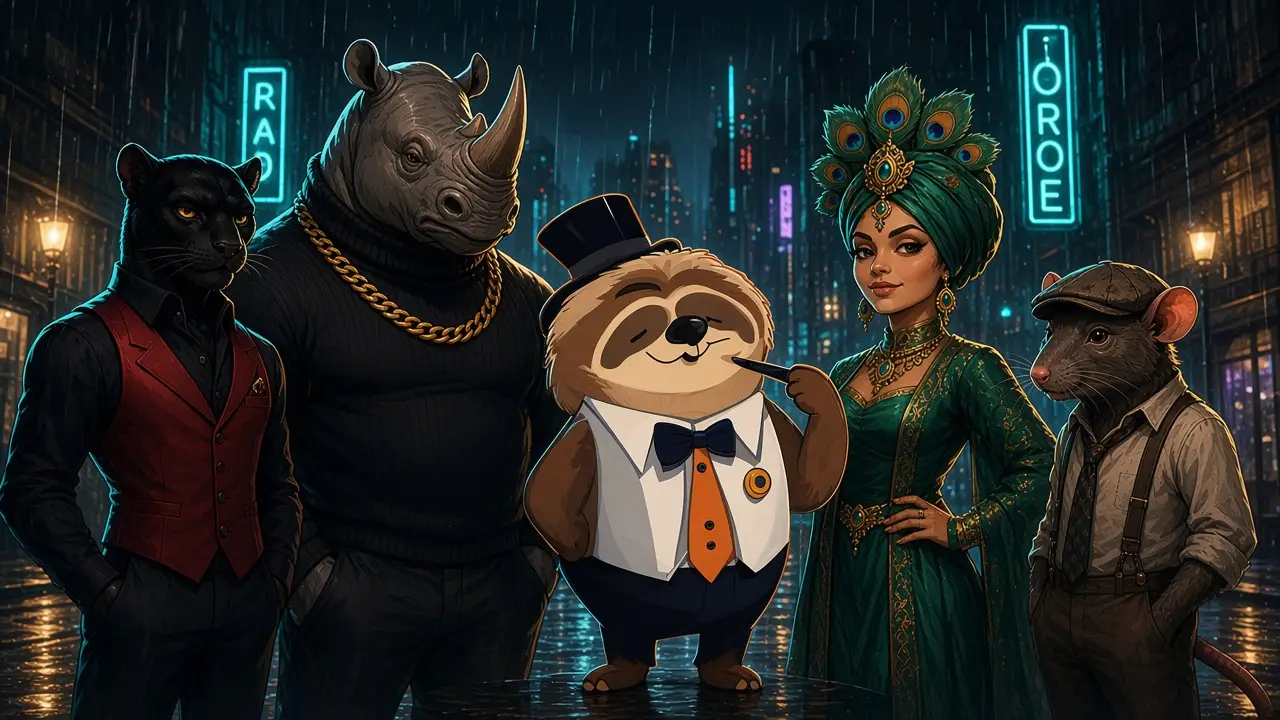
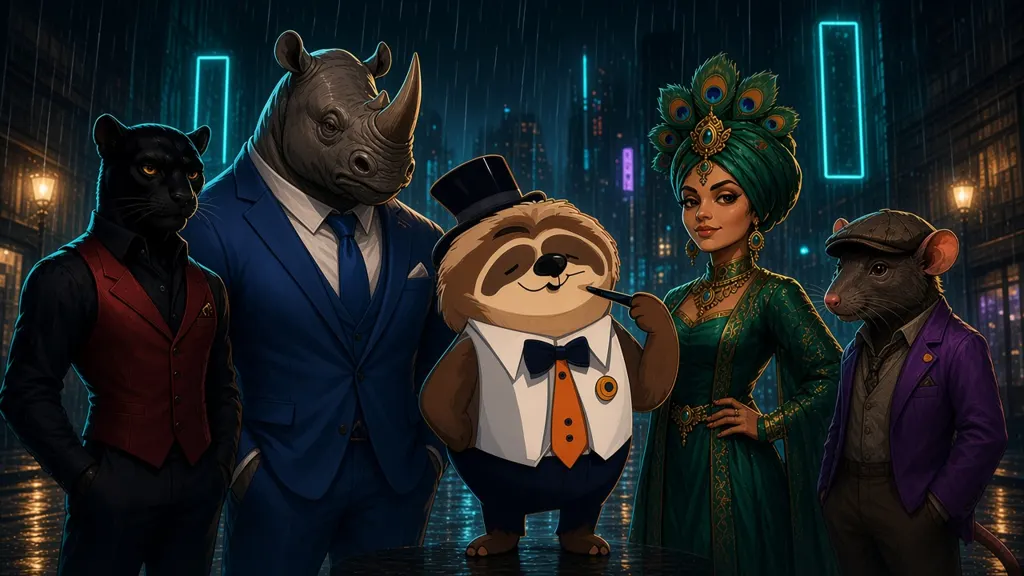
v7: symbol frames, music, art, turbo

diff --git a/app/src/sound.ts b/app/src/sound.ts
@@ -6,7 +6,7 @@ function ac() {
   if (!ctx) {
     ctx = new AudioContext(); master = ctx.createGain(); master.gain.value = 0.8; master.connect(ctx.destination);
     const comp = ctx.createDynamicsCompressor(); comp.connect(master);
-    music = ctx.createGain(); music.gain.value = 0.35; music.connect(comp);
+    music = ctx.createGain(); music.gain.value = 0.32; music.connect(comp);
     sfxBus = ctx.createGain(); sfxBus.gain.value = 0.9; sfxBus.connect(comp);
   }
   return ctx;
@@ -25,21 +25,54 @@ function noise(t0: number, dur: number, vol: number, freq: number, q = 1, type: 
   g.gain.setValueAtTime(vol, t0); g.gain.exponentialRampToValueAtTime(0.0001, t0 + dur);
   s.connect(f).connect(g).connect(dest ?? sfxBus); s.start(t0); s.stop(t0 + dur + 0.05);
 }
-/** Ambient bed: rain noise + dark detuned drone + slow pulse. */
+/** Music: synthesized lounge noir beat. Base loop 86 bpm (lazy hip hop drums, walking bass, rhodes chords, rain).
+ * Bonus loop 100 bpm with busier drums, minor stabs and a pulse. Scheduled with a lookahead timer. */
+let musicOn = true, sfxOn = true, mode: 'base' | 'bonus' = 'base', timer = 0, step = 0, nextT = 0, padBus: GainNode | null = null;
+export function setMusicOn(on: boolean) { musicOn = on; if (ctx) music.gain.setTargetAtTime(on ? 0.32 : 0, ctx.currentTime, 0.1); }
+export function setSfxOn(on: boolean) { sfxOn = on; if (ctx) sfxBus.gain.setTargetAtTime(on ? 0.85 : 0, ctx.currentTime, 0.05); }
+export function setMusicMode(m: 'base' | 'bonus') { mode = m; }
+const N = (m: number) => 440 * 2 ** ((m - 69) / 12);
+// Dm9, G13, Cmaj9, A7b9 (base) and Dm, Bb, Gm, A (bonus)
+const CH = { base: [[50, 53, 57, 60, 64], [43, 53, 57, 59, 64], [48, 52, 55, 59, 62], [45, 55, 58, 61, 64]], bonus: [[50, 57, 62, 65], [46, 58, 62, 65], [43, 55, 58, 62], [45, 57, 61, 64]] };
+const BASS = { base: [38, 41, 45, 43, 31, 35, 38, 41, 36, 40, 43, 45, 33, 37, 40, 43], bonus: [38, 38, 50, 38, 34, 34, 46, 34, 31, 31, 43, 31, 33, 33, 45, 40] };
+function kick(t: number, v = .5) { osc(110, 'sine', t, .28, v, music, 40); }
+function snare(t: number, v = .25) { noise(t, .18, v, 1800, .8, 'bandpass', music); osc(190, 'triangle', t, .08, v * .4, music); }
+function hat(t: number, v = .06) { noise(t, .04, v, 8000, 1, 'highpass', music); }
+function rhodes(t: number, notes: number[], dur: number, v = .035) { for (const n of notes) { osc(N(n), 'sine', t, dur, v, padBus!); osc(N(n) * 2, 'triangle', t, dur * .4, v * .25, padBus!); } }
+function sched() {
+  const c = ctx!; const bpm = mode === 'bonus' ? 100 : 86, s16 = 60 / bpm / 4;
+  while (nextT < c.currentTime + .25) {
+    const t = nextT, k = step % 16, bar = Math.floor(step / 16) % 4, sw = k % 2 ? s16 * .18 : 0, tt = t + sw;
+    if (musicOn) {
+      if (mode === 'base') {
+        if (k === 0 || k === 10 || (k === 7 && bar % 2)) kick(tt); if (k === 4 || k === 12) snare(tt); if (k % 2 === 0 || k === 15) hat(tt, k % 4 === 2 ? .07 : .04);
+        if (k % 4 === 0) osc(N(BASS.base[bar * 4 + k / 4]), 'triangle', tt, s16 * 3.6, .16, music);
+        if (k === 0) rhodes(tt + .02, CH.base[bar], s16 * 14); if (k === 11 && bar % 2) rhodes(tt, CH.base[bar].slice(2), s16 * 3, .025);
+      } else {
+        if (k % 4 === 0 || k === 14) kick(tt, .6); if (k === 4 || k === 12) snare(tt, .32); hat(tt, k % 2 ? .04 : .08);
+        if (k % 4 === 0 || k % 4 === 2) osc(N(BASS.bonus[bar * 4 + Math.floor(k / 4)]), 'sawtooth', tt, s16 * 1.6, .07, music);
+        if (k === 0 || k === 6 || k === 10) rhodes(tt, CH.bonus[bar], s16 * 2, .03); if (k === 0 && bar === 3) osc(N(74), 'square', tt, s16 * 8, .02, music, N(86));
+      }
+    }
+    nextT += s16; step++;
+  }
+}
+/** Starts the audio after the first user tap (mobile autoplay rules). */
 export function startAmbient() {
   const c = ac(); if (c.state === 'suspended') c.resume(); if (bedNodes.length) return;
   const rain = c.createBufferSource(); rain.buffer = noiseBuf(4); rain.loop = true;
-  const rf = c.createBiquadFilter(); rf.type = 'highpass'; rf.frequency.value = 2500; const rg = c.createGain(); rg.gain.value = 0.12;
+  const rf = c.createBiquadFilter(); rf.type = 'highpass'; rf.frequency.value = 3000; const rg = c.createGain(); rg.gain.value = 0.05;
   rain.connect(rf).connect(rg).connect(music); rain.start();
-  const lp = c.createBiquadFilter(); lp.type = 'lowpass'; lp.frequency.value = 220; lp.connect(music);
-  for (const f of [55, 55.4, 82.4]) { const o = c.createOscillator(); o.type = 'sawtooth'; o.frequency.value = f; const g = c.createGain(); g.gain.value = 0.09; o.connect(g).connect(lp); o.start(); bedNodes.push(o); }
-  const lfo = c.createOscillator(); lfo.frequency.value = 0.08; const lg = c.createGain(); lg.gain.value = 120; lfo.connect(lg).connect(lp.frequency); lfo.start();
+  padBus = c.createGain(); const lp = c.createBiquadFilter(); lp.type = 'lowpass'; lp.frequency.value = 1800; padBus.connect(lp).connect(music);
   tension = c.createGain(); tension.gain.value = 0; tension.connect(music);
-  const t = c.createOscillator(); t.type = 'square'; t.frequency.value = 110; const tf = c.createBiquadFilter(); tf.type = 'lowpass'; tf.frequency.value = 600; t.connect(tf).connect(tension); t.start();
-  bedNodes.push(rain, lfo, t);
+  const t = c.createOscillator(); t.type = 'sawtooth'; t.frequency.value = 73.4; const tf = c.createBiquadFilter(); tf.type = 'lowpass'; tf.frequency.value = 500; t.connect(tf).connect(tension); t.start();
+  bedNodes.push(rain, t); music.gain.value = musicOn ? 0.32 : 0; sfxBus.gain.value = sfxOn ? 0.85 : 0;
+  nextT = c.currentTime + .1; timer = window.setInterval(sched, 60);
 }
-export function setTension(on: boolean) { if (tension && ctx) tension.gain.setTargetAtTime(on ? 0.08 : 0, ctx.currentTime, 0.3); }
+export function setTension(on: boolean) { if (tension && ctx) tension.gain.setTargetAtTime(on ? 0.06 : 0, ctx.currentTime, 0.3); }
+export const stopMusic = () => clearInterval(timer);
 const now = () => ac().currentTime;
+const kick2 = (t: number) => osc(90, 'sine', t, .3, .4, sfxBus, 40);
 export const sfx = {
   click: () => osc(900, 'square', now(), 0.04, 0.05, sfxBus),
   spinStart: () => { const t = now(); noise(t, 0.35, 0.25, 800, 0.7, 'lowpass'); osc(120, 'sawtooth', t, 0.3, 0.12, sfxBus, 60); },
@@ -57,6 +90,9 @@ export const sfx = {
     [0, 5, 7, 12, 15, 19, 24].forEach((s, i) => osc(220 * 2 ** (s / 12), 'sawtooth', t + 0.2 + i * 0.11, 0.5, 0.06, sfxBus)); },
   bonus: () => { const t = now(); noise(t, 1.5, 0.6, 90, 0.5, 'lowpass'); [0, 3, 7, 12, 15].forEach((s, i) => osc(110 * 2 ** (s / 12), 'sawtooth', t + i * 0.18, 0.9, 0.08, sfxBus)); osc(41, 'sine', t, 2, 0.5, sfxBus); },
   slam: () => { const t = now(); noise(t, 0.5, 0.9, 140, 0.6, 'lowpass'); osc(48, 'sine', t, 0.6, 0.8, sfxBus, 28); osc(2400, 'triangle', t, 0.25, 0.06, sfxBus, 1200); },
+  cellOpen: () => { const t = now(); noise(t, .2, .5, 2500, 2); osc(140, 'square', t, .12, .1, sfxBus, 70); osc(1200, 'triangle', t + .12, .25, .08, sfxBus, 1800); },
+  winTier: (i: number) => { const t = now(); const sc = [[0, 4, 7], [0, 4, 7, 11], [0, 4, 7, 11, 14], [0, 4, 7, 11, 14, 19]][Math.max(0, Math.min(3, i))];
+    sc.forEach((s, k) => { osc(392 * 2 ** (s / 12), 'triangle', t + k * .09, .5, .09, sfxBus); osc(196 * 2 ** (s / 12), 'square', t + k * .09, .3, .03, sfxBus); }); kick2(t); },
   whoosh: () => { const t = now(); noise(t, 0.45, 0.35, 900, 0.5, 'bandpass'); },
   coin: () => { const t = now(); osc(2600 + Math.random() * 800, 'triangle', t, 0.08, 0.05, sfxBus); osc(3900, 'sine', t + 0.03, 0.06, 0.03, sfxBus); },
   tierUp: (i: number) => { const t = now(); [0, 4, 7, 12].forEach((s, k) => osc(262 * 2 ** ((s + i * 5) / 12), 'square', t + k * 0.06, 0.3, 0.07, sfxBus)); noise(t, 0.6, 0.3, 3000, 1); },

diff --git a/app/src/board.ts b/app/src/board.ts
@@ -20,14 +20,27 @@ interface Reel { c: Container; strip: Container; slots: Slot[]; pos: number; spe
 type Particle = { s: Sprite; vx: number; vy: number; life: number; max: number; g: number };
 
 async function loadImg(url: string) { const i = new Image(); i.src = url; await i.decode().catch(() => {}); return i; }
-function tex(img: HTMLImageElement, mode: 'plain' | 'blur' | 'split', pad = 6) {
-  const R = 2, cv = document.createElement('canvas'); cv.width = C * R; cv.height = C * R; const x = cv.getContext('2d')!;
-  const sc = Math.min((C - pad * 2) / img.width, (C - pad * 2) / img.height) * R; const w = img.width * sc, h = img.height * sc;
-  const ox = (cv.width - w) / 2, oy = (cv.height - h) / 2;
-  if (mode === 'plain') x.drawImage(img, ox, oy, w, h);
-  else if (mode === 'blur') { for (let i = 0; i < 14; i++) { x.globalAlpha = .16; x.drawImage(img, ox, oy + (i / 13 - .5) * 100 * R / 2, w, h); } }
-  else { const k = .56; x.drawImage(img, ox * .2, oy * .2, w * k, h * k); x.drawImage(img, cv.width - w * k - ox * .2, cv.height - h * k - oy * .2, w * k, h * k);
-    x.strokeStyle = '#02F7FD'; x.lineWidth = 3 * R; x.beginPath(); x.moveTo(cv.width * .92, cv.height * .08); x.lineTo(cv.width * .08, cv.height * .92); x.globalAlpha = .7; x.stroke(); }
+const FRAME: Record<number, string> = { 0: '#f5c542', 1: '#02F7FD', 2: '#f5c542', 3: '#02F7FD', 4: '#f5c542', 5: '#f5c542', 6: '#e0384e', 7: '#3f86ff', 8: '#1fd08f', 9: '#a865ff', 10: '#5aa7b5', 11: '#5aa7b5', 12: '#5aa7b5', 13: '#5aa7b5' };
+/** One frame system for every symbol: dark rounded card, art inside, coloured rim. Full art cards are cropped to cover; cut out icons sit on a tinted glow. */
+function drawFramed(x: CanvasRenderingContext2D, img: HTMLImageElement, sym: number, card: boolean, X: number, Y: number, W: number) {
+  const col = FRAME[sym] ?? '#5aa7b5', r = W * .14, inset = W * .04;
+  const path = () => { x.beginPath(); x.roundRect(X + inset, Y + inset, W - inset * 2, W - inset * 2, r); };
+  x.save(); path(); x.clip();
+  const g = x.createRadialGradient(X + W / 2, Y + W * .45, W * .05, X + W / 2, Y + W / 2, W * .7); g.addColorStop(0, col + '66'); g.addColorStop(.6, '#0c2229'); g.addColorStop(1, '#050e12');
+  x.fillStyle = g; x.fillRect(X, Y, W, W);
+  if (card) { const c = .07 * img.width; x.drawImage(img, c, c, img.width - 2 * c, img.height - 2 * c, X + inset, Y + inset, W - inset * 2, W - inset * 2); }
+  else { const pad = W * .1, sc = Math.min((W - pad * 2) / img.width, (W - pad * 2) / img.height), w = img.width * sc, h = img.height * sc; x.drawImage(img, X + (W - w) / 2, Y + (W - h) / 2, w, h); }
+  const sh = x.createLinearGradient(0, Y, 0, Y + W); sh.addColorStop(0, '#ffffff22'); sh.addColorStop(.35, '#ffffff00'); x.fillStyle = sh; x.fillRect(X, Y, W, W);
+  x.restore(); path(); x.lineWidth = W * .035; x.strokeStyle = col; x.stroke(); x.lineWidth = W * .012; x.strokeStyle = '#ffffff55'; x.stroke();
+}
+function tex(img: HTMLImageElement, mode: 'plain' | 'blur' | 'split', sym = -1, card = false) {
+  const R = 2, W = C * R, cv = document.createElement('canvas'); cv.width = W; cv.height = W; const x = cv.getContext('2d')!;
+  if (sym < 0) { x.drawImage(img, 0, 0, W, W); return Texture.from(cv); }
+  if (mode === 'plain') drawFramed(x, img, sym, card, 0, 0, W);
+  else if (mode === 'blur') { const t = document.createElement('canvas'); t.width = t.height = W; drawFramed(t.getContext('2d')!, img, sym, card, 0, 0, W);
+    for (let i = 0; i < 12; i++) { x.globalAlpha = .18; x.drawImage(t, 0, (i / 11 - .5) * W * .5); } }
+  else { const h = W * .54; drawFramed(x, img, sym, card, 0, 0, h); drawFramed(x, img, sym, card, W - h, W - h, h);
+    x.strokeStyle = '#02F7FD'; x.lineWidth = 3 * R; x.globalAlpha = .8; x.beginPath(); x.moveTo(W * .92, W * .08); x.lineTo(W * .08, W * .92); x.stroke(); }
   return Texture.from(cv);
 }
 function dotTex() { const c = document.createElement('canvas'); c.width = c.height = 64; const x = c.getContext('2d')!; const g = x.createRadialGradient(32, 32, 0, 32, 32, 32);
@@ -51,9 +64,9 @@ export class Board {
     const cv = this.app.canvas; cv.style.width = '100%'; cv.style.height = '100%'; cv.style.display = 'block'; host.appendChild(cv);
     const imgs = await Promise.all(SYM.map(n => loadImg(ART(n))));
     const cards = new Set([S.WILD, S.DWILD, 6, 7, 8, 9]);
-    this.plain = imgs.map((im, i) => tex(im, 'plain', cards.has(i as 0) ? 4 : 10)); this.blur = imgs.map(im => tex(im, 'blur'));
-    this.splitT = imgs.map((im, i) => tex(im, 'split', cards.has(i as 0) ? 4 : 10));
-    for (const n of ['locked', 'runner']) this.T[n] = tex(await loadImg(ART(n)), 'plain', 2);
+    this.plain = imgs.map((im, i) => tex(im, 'plain', i, cards.has(i as 0))); this.blur = imgs.map((im, i) => tex(im, 'blur', i, cards.has(i as 0)));
+    this.splitT = imgs.map((im, i) => tex(im, 'split', i, cards.has(i as 0)));
+    this.T.locked = tex(await loadImg(ART('locked')), 'plain'); this.T.runner = tex(await loadImg(ART('runner')), 'plain', S.WILD, true);
     this.dot = dotTex(); this.shine = shineTex();
     this.app.stage.addChild(this.root);
     for (let r = 0; r < 5; r++) {
@@ -117,7 +130,7 @@ export class Board {
   private resetVaults() { for (const r of this.reels) for (const v of r.vault) { v.open = false; v.content.visible = false; v.badge?.destroy(); v.badge = null; gsap.killTweensOf(v.lock); v.lock.alpha = 1; v.lock.y = ry(r.vault.indexOf(v) ? 4 : 0); } }
   spin(sp: Spin, opts: { turbo: boolean; antic: boolean }) {
     this.clearWins(); this.clearParticles(); this.resetVaults(); this.turbo = opts.turbo; this.quick = false; this.ctx = sp; this.anticOK = opts.antic; this.keys = 0; this.landed = 0;
-    const now = performance.now(), base = opts.turbo ? 120 : 420, stag = opts.turbo ? 45 : 140;
+    const now = performance.now(), base = opts.turbo ? 90 : 420, stag = opts.turbo ? 0 : 140;
     this.reels.forEach((r, i) => { const col = sp.grid[i]; r.feed = [col[3]!.s, col[2]!.s, col[1]!.s, rndSym()]; r.stopAt = now + base + i * stag; r.antic = false;
       gsap.fromTo(r.strip, { y: 0 }, { y: -12, duration: .07, yoyo: true, repeat: 1 }); setTimeout(() => { r.state = 'spin'; r.speed = 900; }, 60); });
     const t0 = performance.now();
@@ -147,7 +160,7 @@ export class Board {
   async openCells(sp: Spin) {
     for (const rv of sp.reveals) { const r = this.reels[rv.reel]; const v = r.vault[rv.row === 0 ? 0 : 1]; const p = this.pos(rv.reel, rv.row);
       sfx.enhancer(); v.open = true;
-      gsap.to(v.lock, { y: v.lock.y + (rv.row === 0 ? -C * .6 : C * .6), alpha: 0, duration: this.turbo ? .15 : .3, ease: 'power2.in' });
+      sfx.cellOpen(); gsap.to(v.lock, { y: v.lock.y + (rv.row === 0 ? -C * .6 : C * .6), alpha: 0, duration: this.turbo ? .15 : .3, ease: 'power2.in' });
       await wait(this.turbo ? 90 : 200);
       v.content.texture = rv.cell.s === S.EXPAND ? this.plain[S.EXPAND] : this.cellTex(rv.cell); v.content.width = v.content.height = C; v.content.visible = true;
       gsap.fromTo(v.content.scale, { x: v.content.scale.x * 1.5, y: v.content.scale.y * 1.5 }, { x: v.content.scale.x, y: v.content.scale.y, duration: .3, ease: 'back.out(3)' });

diff --git a/app/src/engine.ts b/app/src/engine.ts
@@ -4,7 +4,7 @@
 export const REELS = 5, ROWS = 5, FLOATS_PER_SPIN = 96, BLOCKS_PER_SPIN = 12, MAX_WIN = 50_000, MAX_SPINS = 300, MULT_CAP = 256, MAX_RUNNERS = 5;
 export const S = { WILD: 0, KEY: 1, DWILD: 2, SPLIT: 3, EXPAND: 4, MYST: 5 } as const;
 export const SYM = ['wild', 'key', 'dwild', 'split', 'expand', 'mystery', 'h1', 'h2', 'h3', 'h4', 'l1', 'l2', 'l3', 'l4'] as const;
-export const NAMES = ['Boss Wild', 'House Key', 'Double Wild', 'Double Down', 'Stack Up', 'Sealed Tip', 'The Croupier', 'Big Lou', 'Madame Jade', 'Ratchet', 'Chips', 'Dice', 'Cards', 'Cocktail'];
+export const NAMES = ['Wild', 'Key', 'Double Wild', 'Split', 'Stack', 'Mystery', 'The Croupier', 'Big Lou', 'Madame Jade', 'Ratchet', 'Chips', 'Dice', 'Cards', 'Cocktail'];
 export const PAYING = [6, 7, 8, 9, 10, 11, 12, 13];
 export const PREMIUM = [6, 7, 8, 9];
 const WEIGHTS = [4, 5, 6, 7, 10, 11, 12, 13]; const WSUM = WEIGHTS.reduce((a, b) => a + b, 0);

diff --git a/app/index.html b/app/index.html
@@ -4,7 +4,7 @@
     <meta charset="UTF-8" />
     <link rel="icon" type="image/svg+xml" href="/favicon.svg" />
     <meta name="viewport" content="width=device-width, initial-scale=1.0" />
-    <title>Crooked House: Hubie's Last Job</title>
+    <title>House Rules: Hubie Owns the Night</title>
   </head>
   <body>
     <div id="root"></div>
